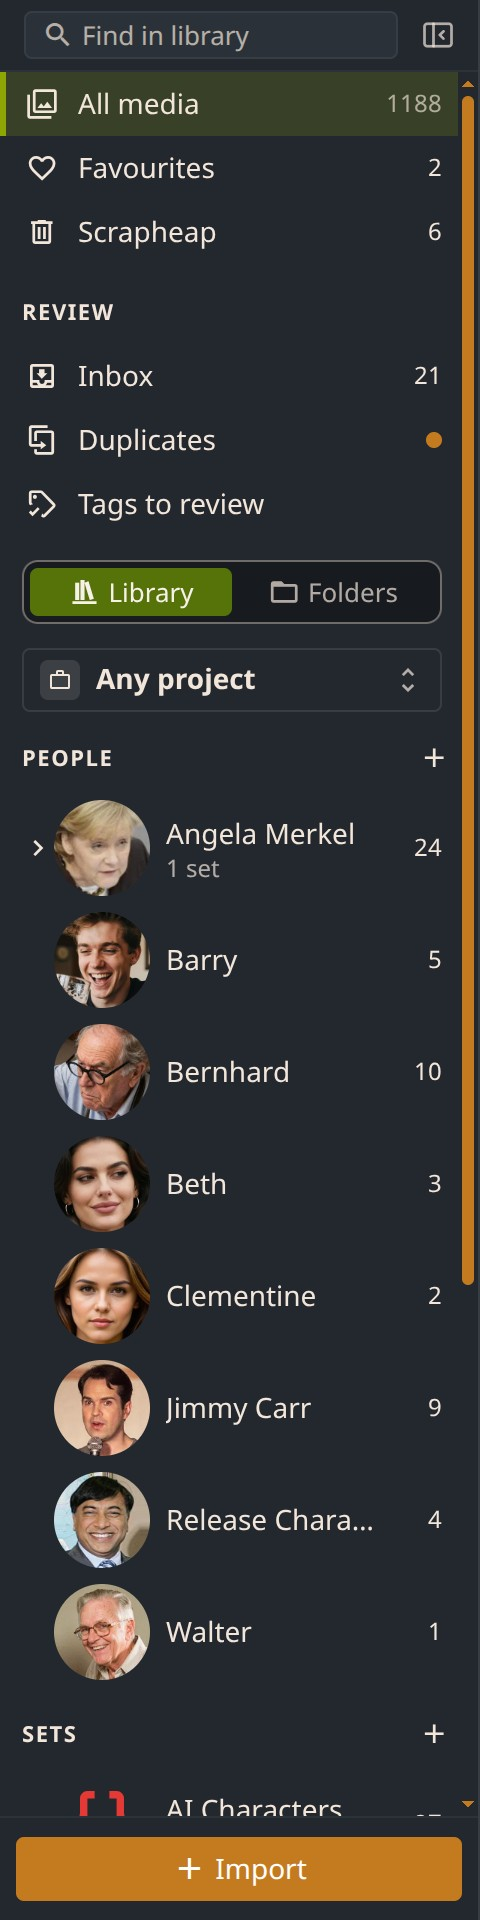
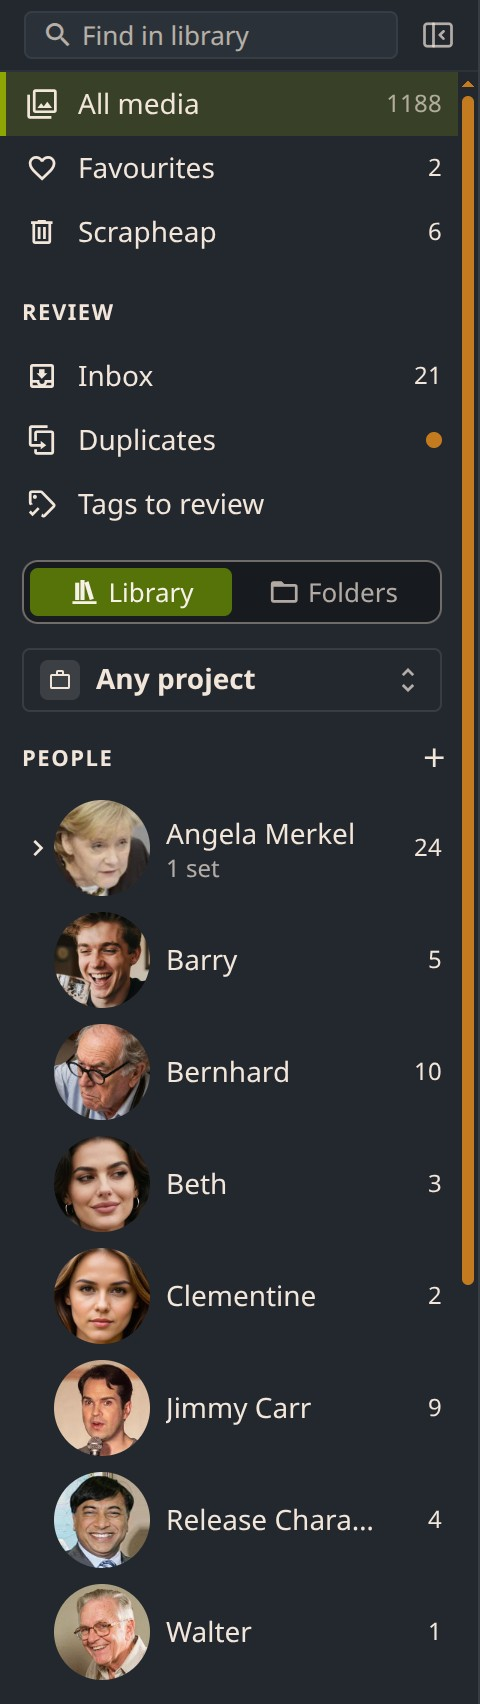
People shot: crop under the last person, show it smaller

diff --git a/site/features.html b/site/features.html
@@ -99,6 +99,16 @@
         border: 1px solid var(--border);
       }
 
+      /* A tall, narrow shot (a sidebar) at full card width would be the
+         tallest card on the page by far: keep it the height of its row. */
+      .shot img.shot-img--tall {
+        width: auto;
+        max-width: 100%;
+        max-height: 300px;
+        margin-left: auto;
+        margin-right: auto;
+      }
+
       .shot video {
         width: 100%;
         height: auto;
@@ -1035,6 +1045,7 @@
             <div class="shot-label"><h4>People management</h4></div>
             <button class="shot-image-btn" type="button">
               <img
+                class="shot-img--tall"
                 src="assets/ScreenshotCharacters.jpg"
                 data-full="assets/ScreenshotCharacters.jpg"
                 alt="PixlStash character management view"
